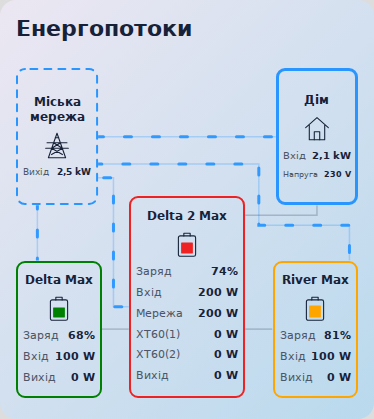
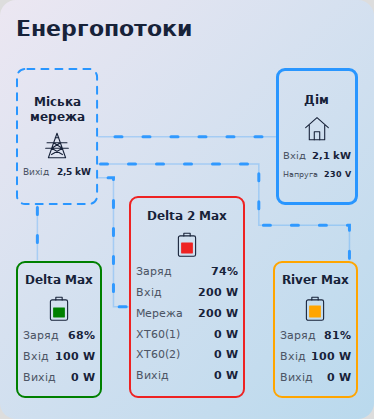
Beta 2.0.5-beta.2: hide inactive flow tracks

diff --git a/suris-ecoflow-flow-card.js b/suris-ecoflow-flow-card.js
@@ -1,8 +1,8 @@
-/* Suris EcoFlow Flow Card v2.0.5-beta.1 | MIT | No external dependencies. */
+/* Suris EcoFlow Flow Card v2.0.5-beta.2 | MIT | No external dependencies. */
 (() => {
   'use strict';
   const TAG = 'suris-ecoflow-flow-card';
-  const VERSION = '2.0.5-beta.1';
+  const VERSION = '2.0.5-beta.2';
   const NS = 'http://www.w3.org/2000/svg';
   let cardSequence = 0;
   const DEFAULTS = {
@@ -173,7 +173,7 @@
     *{box-sizing:border-box}ha-card{display:block;overflow:hidden;background:var(--ha-card-background,var(--card-background-color,#1c1c1c));color:var(--primary-text-color,#e8e8e8);padding:16px;border-radius:var(--ha-card-border-radius,16px)}
     .wrap{container-type:inline-size}h2{font-size:22px;font-weight:600;margin:0 0 8px}.diagram{position:relative;height:clamp(540px,65cqw,720px)}
     .lines{position:absolute;inset:0;width:100%;height:100%;overflow:visible;pointer-events:none}
-    .flow path{fill:none;stroke:color-mix(in srgb,var(--primary-text-color,#9aa0a6) 55%,transparent);stroke-width:1.5;stroke-linejoin:miter;stroke-linecap:butt;opacity:.40}.flow.active .flow-track{stroke:var(--color);opacity:.28}.flow .flow-dashes{stroke:var(--color);stroke-width:3;stroke-linecap:round;stroke-dasharray:7 21;opacity:.95;visibility:hidden}.flow.active .flow-dashes{visibility:visible}
+    .flow path{fill:none;stroke:color-mix(in srgb,var(--primary-text-color,#9aa0a6) 55%,transparent);stroke-width:1.5;stroke-linejoin:miter;stroke-linecap:butt;opacity:.40}.flow .flow-track{visibility:hidden}.flow.active .flow-track{stroke:var(--color);opacity:.28;visibility:visible}.flow .flow-dashes{stroke:var(--color);stroke-width:3;stroke-linecap:round;stroke-dasharray:7 21;opacity:.95;visibility:hidden}.flow.active .flow-dashes{visibility:visible}
     .node{position:absolute;display:flex;flex-direction:column;justify-content:center;gap:7px;min-width:0;background:transparent;background:color-mix(in srgb,var(--ha-card-background,var(--card-background-color,#1c1c1c)) 8%,transparent);border:2px solid var(--node-color,var(--divider-color,#60656d));border-radius:12px;padding:12px 10px;z-index:1;min-height:140px;height:auto}
     .node.supplying{border-color:transparent}.node-border{position:absolute;overflow:visible;pointer-events:none;display:none;z-index:2}.node-border.active{display:block}.node-border path{fill:none;stroke:var(--node-color);stroke-width:2;stroke-linecap:round;stroke-dasharray:7 7}
     .node h3{font-size:clamp(12px,1.9cqw,20px);line-height:1.25;text-align:center;margin:0;font-weight:600;overflow-wrap:anywhere}.node .icon{display:flex;justify-content:center;height:clamp(30px,5cqw,56px);margin:4px 0}.icon svg{height:100%;width:64px;fill:none;stroke:currentColor;stroke-width:2.4;stroke-linecap:round;stroke-linejoin:round}.icon .battery-fill{fill:var(--node-color,var(--flow-main));stroke:none}

diff --git a/demo.html b/demo.html
@@ -1,5 +1,5 @@
 <!doctype html>
-<html lang="uk"><head><meta charset="utf-8"><meta name="viewport" content="width=device-width,initial-scale=1"><title>Suris EcoFlow Flow Card 2.0.5-beta.1 — Demo</title>
+<html lang="uk"><head><meta charset="utf-8"><meta name="viewport" content="width=device-width,initial-scale=1"><title>Suris EcoFlow Flow Card 2.0.5-beta.2 — Demo</title>
 <style>body{margin:20px auto;padding:0 12px;max-width:1060px;background:#111;color:#eee;font:16px system-ui;--ha-card-background:#1c1c1c;--primary-text-color:#eee;--secondary-text-color:#aaa;--divider-color:#535861}nav{display:flex;gap:8px;flex-wrap:wrap;margin:16px 0}button{background:#222;border:1px solid #666;color:#eee;padding:10px 14px;border-radius:8px;cursor:pointer}button:focus-visible{outline:2px solid #27d9d5}p{color:#aaa;font-size:13px}</style>
 </head><body><nav><button data-mode="main">Дім від EcoFlow</button><button data-mode="aux3">Передача EcoFlow №3</button><button data-mode="grid">Дім від мережі</button><button data-mode="charging">Заряджання від мережі</button><button data-mode="replace">Заміна сильнішим приладом</button><button data-mode="single">Один ряд приладів</button><button data-mode="idle">Прилади вимкнені</button><button data-mode="unknown">Джерело недоступне</button></nav><suris-ecoflow-flow-card></suris-ecoflow-flow-card><p>Демонстраційні показники. Для встановлення відкрий README.md.</p>
 <script src="./suris-ecoflow-flow-card.js"></script><script>

diff --git a/README.md b/README.md
@@ -1,12 +1,12 @@
-# Suris EcoFlow Flow Card 2.0.5-beta.1
+# Suris EcoFlow Flow Card 2.0.5-beta.2
 
-[English guide](README_EN.md) · [Завантажити 2.0.5-beta.1](https://github.com/Suris2009/suris-ecoflow-flow-card/releases/tag/v2.0.5-beta.1) · [Попередня 0.1.12](https://github.com/Suris2009/suris-ecoflow-flow-card/releases/tag/v0.1.12)
+[English guide](README_EN.md) · [Завантажити 2.0.5-beta.2](https://github.com/Suris2009/suris-ecoflow-flow-card/releases/tag/v2.0.5-beta.2) · [Попередня 0.1.12](https://github.com/Suris2009/suris-ecoflow-flow-card/releases/tag/v0.1.12)
 
-**Бета 2.0.5-beta.1 для перевірки потоків при недоступних станціях.** Оновлення з версії 1 та бет версії 2 зберігає налаштування картки.
+**Бета 2.0.5-beta.2: неактивні лінії приховані; потік мережа → дім працює при недоступній головній станції.** Оновлення з версії 1 та бет версії 2 зберігає налаштування картки.
 
 Картка Home Assistant із візуальним редактором сутностей. Міська мережа ліворуч, дім праворуч, головна EcoFlow знизу між двома допоміжними станціями. Зверху — до шести активних індивідуальних споживачів із найбільшою потужністю, без гортання. Висота автоматично зменшується, коли один або обидва ряди не потрібні. Значення потужності містяться у квадратних блоках; на лініях лише рух потоку. Працює локально, без сторонніх бібліотек, CDN та збірки.
 
-У HACS відкрий картку → ⋮ → Повторно завантажити, увімкни показ бета-версій і вибери **2.0.5-beta.1**. Після встановлення онови інтерфейс. Випуск 2.0.4 знято зі стабільних через відсутній потік від мережі при недоступній головній EcoFlow.
+У HACS відкрий картку → ⋮ → Повторно завантажити, увімкни показ бета-версій і вибери **2.0.5-beta.2**. Після встановлення онови інтерфейс. Випуск 2.0.4 знято зі стабільних через відсутній потік від мережі при недоступній головній EcoFlow.
 
 ![Мережа живить дім, головна EcoFlow недоступна](preview-offline-grid.png)
 
@@ -44,7 +44,7 @@
 
 1. Відкрий **HACS → ⋮ → Користувацькі репозиторії**.
 2. Додай `https://github.com/Suris2009/suris-ecoflow-flow-card`, тип **Dashboard / Панель огляду** (у старих версіях — **Lovelace / Plugin**).
-3. Знайди **Suris EcoFlow Flow Card** та завантаж **2.0.5-beta.1**. Якщо картка вже встановлена, відкрий її в HACS і встанови доступне оновлення.
+3. Знайди **Suris EcoFlow Flow Card** та завантаж **2.0.5-beta.2**. Якщо картка вже встановлена, відкрий її в HACS і встанови доступне оновлення.
 4. Онови сторінку Home Assistant. Якщо ресурс не додано автоматично, додай `/hacsfiles/suris-ecoflow-flow-card/suris-ecoflow-flow-card.js` як **JavaScript module** у ресурсах панелей огляду.
 5. На панелі натисни **Редагувати → Додати картку → Suris EcoFlow Flow Card** і вибери сутності у візуальному редакторі.
 
@@ -54,7 +54,7 @@
 
 1. Скопіюй `suris-ecoflow-flow-card.js` до папки `www` у каталозі конфігурації Home Assistant. Через Studio Code Server це зазвичай `/config/www`; в окремих версіях середовища каталог може відображатися як `/homeassistant/www`. Використовуй той каталог, у якому розташований `configuration.yaml`. Можна скористатися Samba або завантаженням файлу в редакторі. Якщо папку `www` щойно створено вперше, перезапусти Home Assistant.
 2. Відкрий **Налаштування → Панелі огляду → ⋮ → Ресурси → Додати ресурс**. Якщо «Ресурси» не видно, увімкни розширений режим у профілі користувача.
-3. URL: `/local/suris-ecoflow-flow-card.js?v=2.0.5-beta.1`. Тип: **JavaScript module**.
+3. URL: `/local/suris-ecoflow-flow-card.js?v=2.0.5-beta.2`. Тип: **JavaScript module**.
 4. Онови сторінку Home Assistant. За потреби очисть кеш інтерфейсу в застосунку.
 5. На панелі огляду натисни **Редагувати → Додати картку**, знайди **Suris EcoFlow Flow Card**.
 6. Вибери сутності у візуальному редакторі. YAML не потрібен.
@@ -95,7 +95,7 @@ consumers:
 
 ## Оновлення з версії 1 або бети та повернення назад
 
-Онови ресурс картки до **2.0.5-beta.1**, потім перезавантаж інтерфейс Home Assistant. Тип `custom:suris-ecoflow-flow-card` не змінюється; назви, сутності, кольори та швидкість станцій зберігаються. Не створюй нову картку і не додавай другий JS-ресурс. Після оновлення з версії 1 додай прилади через редактор. Якщо оновлюєшся з бети версії 2, уже налаштовані прилади також зберігаються.
+Онови ресурс картки до **2.0.5-beta.2**, потім перезавантаж інтерфейс Home Assistant. Тип `custom:suris-ecoflow-flow-card` не змінюється; назви, сутності, кольори та швидкість станцій зберігаються. Не створюй нову картку і не додавай другий JS-ресурс. Після оновлення з версії 1 додай прилади через редактор. Якщо оновлюєшся з бети версії 2, уже налаштовані прилади також зберігаються.
 
 Щоб повернутися до попередньої версії 1, збережи копію YAML картки й установи **0.1.12** через HACS або заміни той самий JS-файл файлом версії 1. Перезавантаж інтерфейс. Версія 1 не відображає список споживачів; налаштування станцій сумісні.
 

diff --git a/README_EN.md b/README_EN.md
@@ -1,12 +1,12 @@
-# Suris EcoFlow Flow Card 2.0.5-beta.1
+# Suris EcoFlow Flow Card 2.0.5-beta.2
 
-[Українська інструкція](README.md) · [Download 2.0.5-beta.1](https://github.com/Suris2009/suris-ecoflow-flow-card/releases/tag/v2.0.5-beta.1) · [Previous 0.1.12](https://github.com/Suris2009/suris-ecoflow-flow-card/releases/tag/v0.1.12)
+[Українська інструкція](README.md) · [Download 2.0.5-beta.2](https://github.com/Suris2009/suris-ecoflow-flow-card/releases/tag/v2.0.5-beta.2) · [Previous 0.1.12](https://github.com/Suris2009/suris-ecoflow-flow-card/releases/tag/v0.1.12)
 
-**Beta 2.0.5-beta.1 for testing flows with unavailable stations.** Upgrading from version 1 or a version 2 beta preserves the card configuration.
+**Beta 2.0.5-beta.2: inactive lines are hidden; the grid-to-home flow works when the main station is unavailable.** Upgrading from version 1 or a version 2 beta preserves the card configuration.
 
 A Home Assistant dashboard card with a visual entity editor. City grid is on the left, home on the right, and the main EcoFlow sits between the two auxiliary stations at the bottom. Up to six active home consumers appear above them, without scrolling. The card automatically shrinks when one or both consumer rows are unused. Power readings stay inside the blocks; lines show only moving flow.
 
-In HACS open the card → ⋮ → Redownload, enable beta versions and choose **2.0.5-beta.1**. Reload the frontend after installation. Release 2.0.4 has been withdrawn from stable releases because it hid the grid-to-home flow when the main EcoFlow was unavailable.
+In HACS open the card → ⋮ → Redownload, enable beta versions and choose **2.0.5-beta.2**. Reload the frontend after installation. Release 2.0.4 has been withdrawn from stable releases because it hid the grid-to-home flow when the main EcoFlow was unavailable.
 
 ![Grid supplies Home while the main EcoFlow is unavailable](preview-offline-grid.png)
 
@@ -32,7 +32,7 @@ As devices switch on or off, the card resizes automatically. A single row moves 
 
 1. Open **HACS → ⋮ → Custom repositories**.
 2. Add `https://github.com/Suris2009/suris-ecoflow-flow-card`, category **Dashboard** (Lovelace / Plugin in older versions).
-3. Download **2.0.5-beta.1**. If the card is already installed, open its HACS entry and install the available update.
+3. Download **2.0.5-beta.2**. If the card is already installed, open its HACS entry and install the available update.
 4. Reload the Home Assistant frontend. If HACS did not add the resource, add `/hacsfiles/suris-ecoflow-flow-card/suris-ecoflow-flow-card.js` as a **JavaScript module** in dashboard resources.
 5. Open **Edit dashboard → Add card → Suris EcoFlow Flow Card**. Choose your entities in the visual editor. YAML is optional.
 
@@ -40,9 +40,9 @@ This repository is added as a custom HACS repository; inclusion in the default c
 
 ## Manual installation
 
-1. Download `suris-ecoflow-flow-card.js` from the 2.0.5-beta.1 release. Put it in the `www` folder beside your Home Assistant `configuration.yaml`, commonly `/config/www`. If you just created `www` for the first time, restart Home Assistant.
+1. Download `suris-ecoflow-flow-card.js` from the 2.0.5-beta.2 release. Put it in the `www` folder beside your Home Assistant `configuration.yaml`, commonly `/config/www`. If you just created `www` for the first time, restart Home Assistant.
 2. Open **Settings → Dashboards → ⋮ → Resources → Add resource**. Enable Advanced mode in your user profile if Resources is hidden.
-3. URL: `/local/suris-ecoflow-flow-card.js?v=2.0.5-beta.1`; type: **JavaScript module**.
+3. URL: `/local/suris-ecoflow-flow-card.js?v=2.0.5-beta.2`; type: **JavaScript module**.
 4. Reload the frontend, then add and configure the card through the visual editor. Clear the frontend cache if the old version remains visible.
 
 ## Configure the stations and home
@@ -124,7 +124,7 @@ All power rows stay on one line. Values below 1000 W use W; values from 1000 W u
 
 ## Upgrade from version 1 or a beta, or roll back
 
-Update the same resource to **2.0.5-beta.1** and reload the frontend. The card type remains `custom:suris-ecoflow-flow-card`. Existing station entities, names, colors and flow settings are retained. When upgrading from version 1, add consumers in the editor; none are added automatically. Existing consumer settings from version 2 betas are retained. Without active consumers, the card shrinks automatically. Do not add a duplicate resource or recreate the card.
+Update the same resource to **2.0.5-beta.2** and reload the frontend. The card type remains `custom:suris-ecoflow-flow-card`. Existing station entities, names, colors and flow settings are retained. When upgrading from version 1, add consumers in the editor; none are added automatically. Existing consumer settings from version 2 betas are retained. Without active consumers, the card shrinks automatically. Do not add a duplicate resource or recreate the card.
 
 To roll back, save a copy of the card YAML, install **0.1.12** through HACS or replace the same JS file with the version 1 asset, and reload the frontend. Version 1 does not display consumers; station settings remain compatible.
 

diff --git a/CHANGELOG.md b/CHANGELOG.md
@@ -1,5 +1,11 @@
 # Changelog
 
+## 2.0.5-beta.2 — Pre-release
+
+- Hide inactive flow tracks, including routes to idle and unavailable stations. Only active energy flows remain visible.
+- Retain the restored grid-to-home flow when the main station is unavailable, its moving dashes and the independent grid outage warning.
+- Verify visibility while switching between grid supply, station charging and main-station supply, on mobile widths and with reduced motion.
+
 ## 2.0.5-beta.1 — Pre-release
 
 - Restore the grid-to-home flow when the main station is unavailable and grid power is above the flow threshold. Positive main output keeps priority; the grid availability sensor still controls only its warning.
